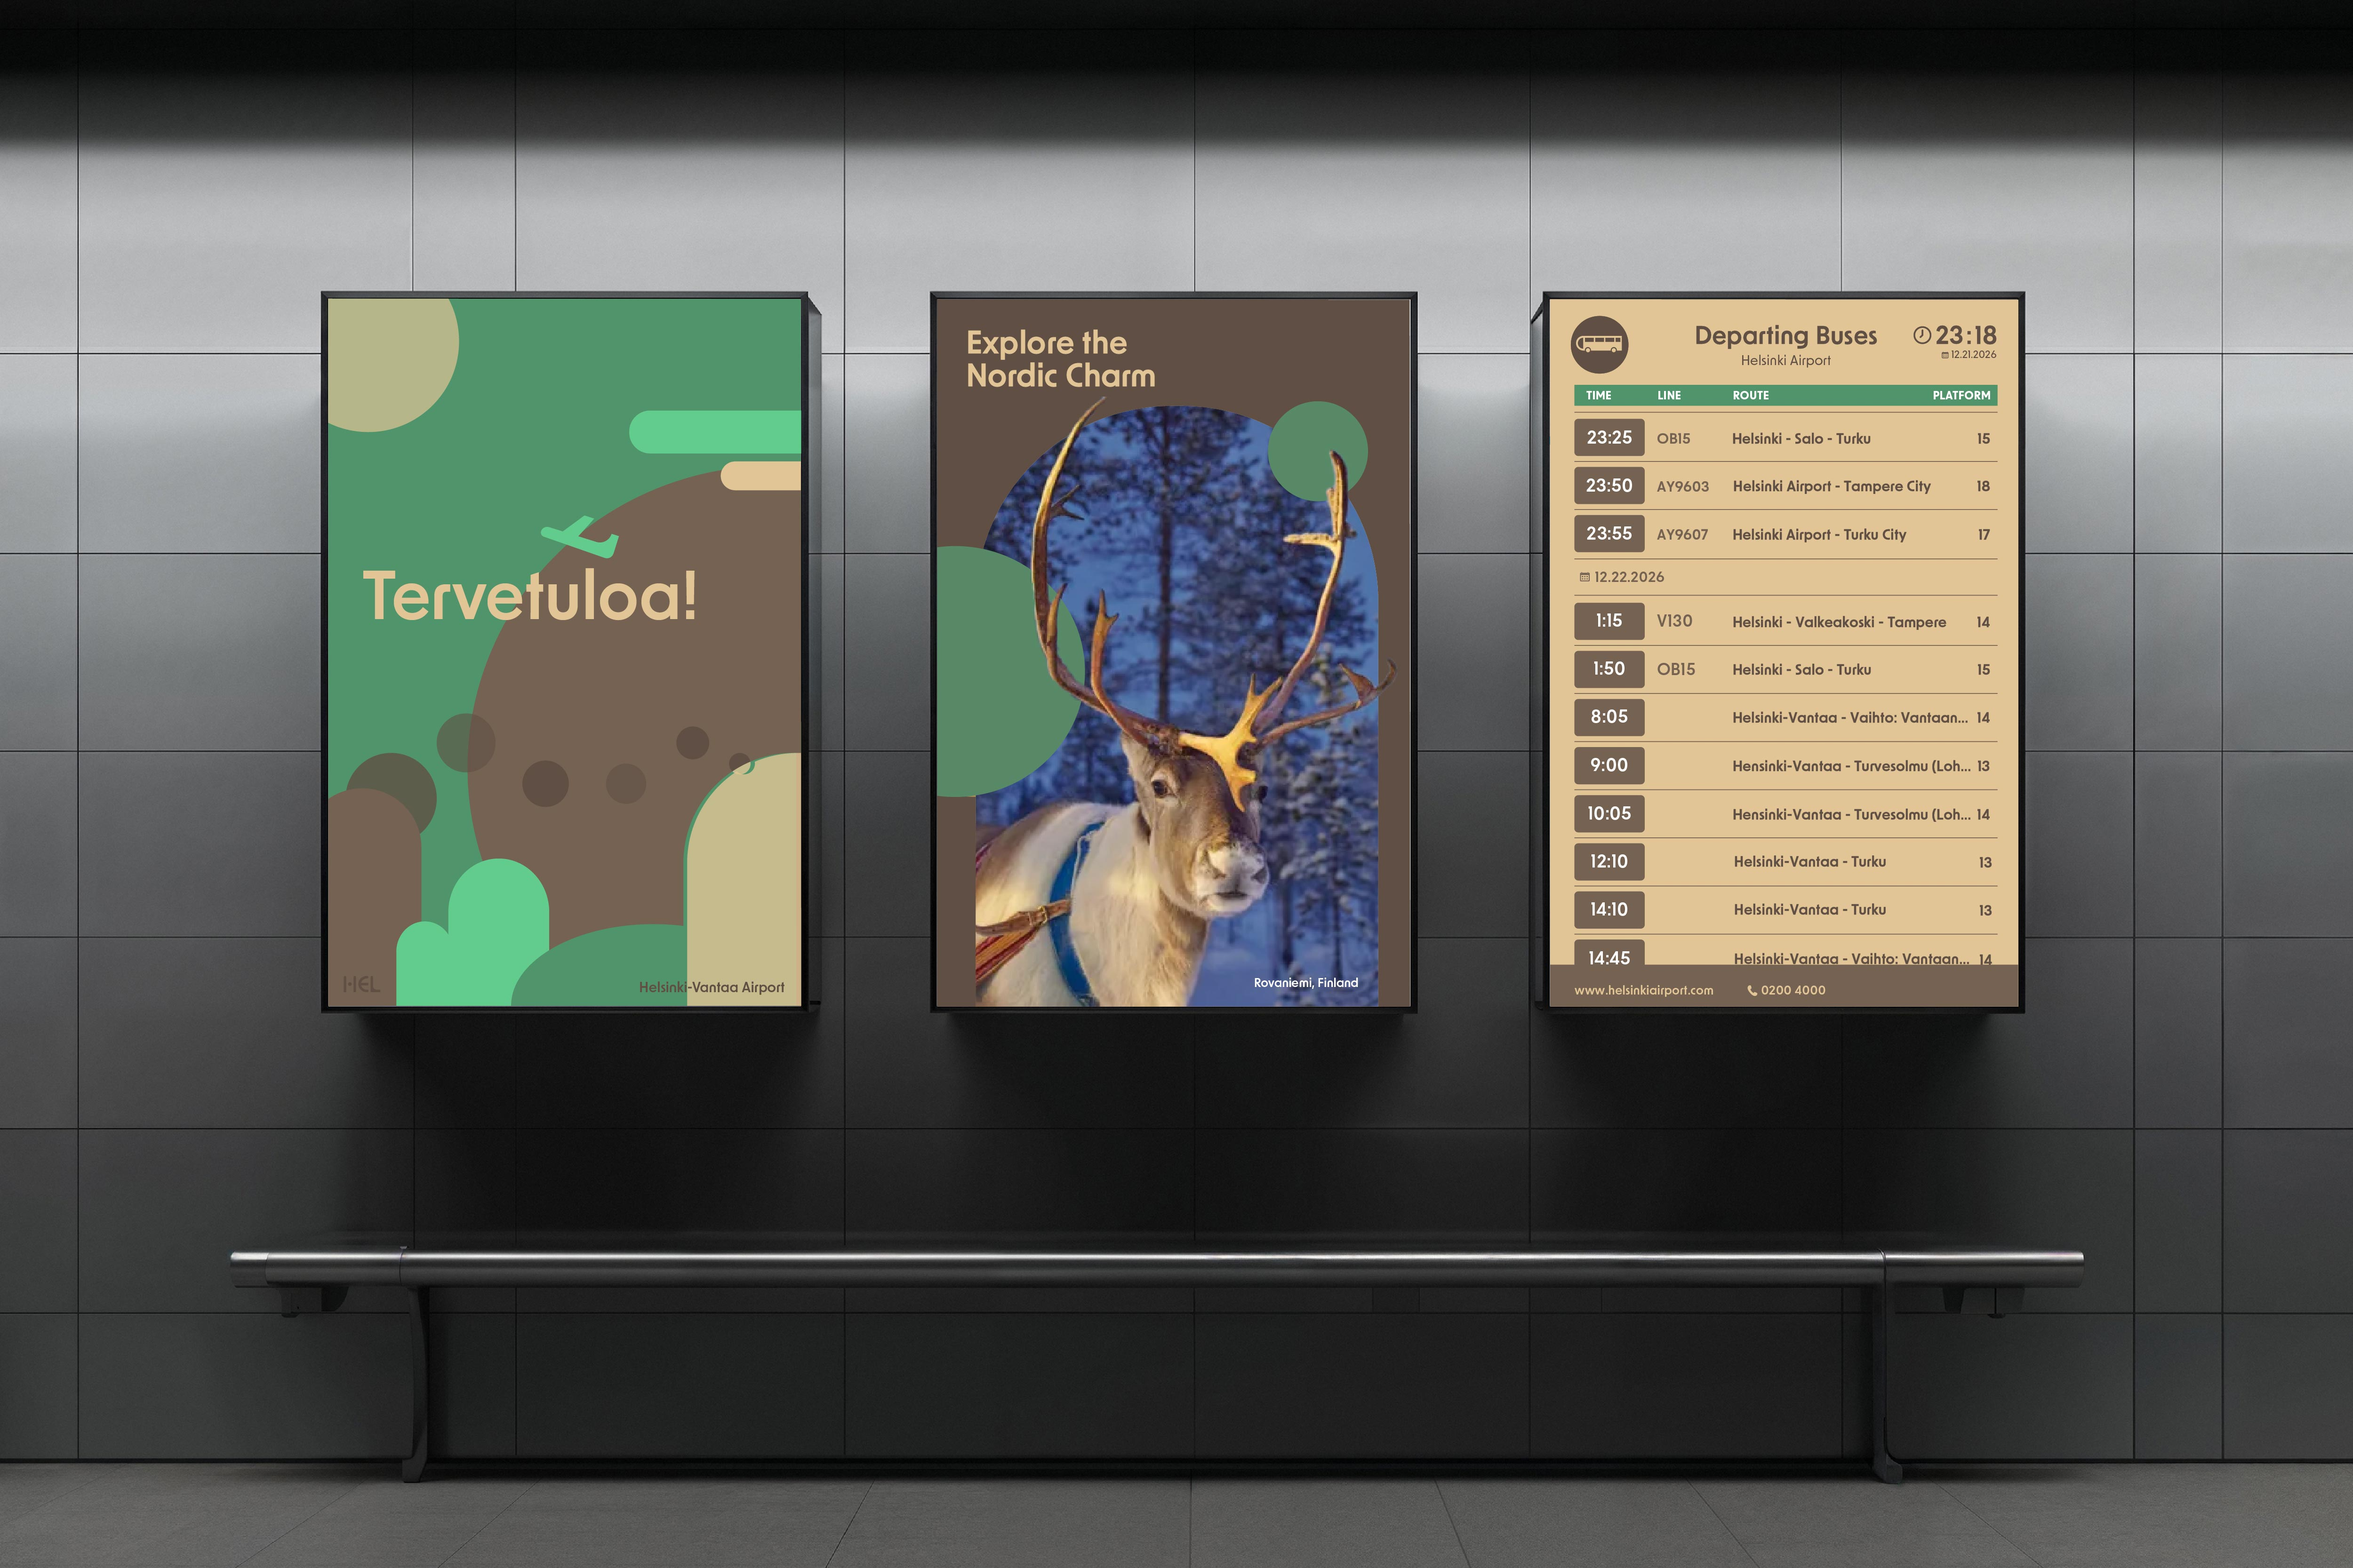
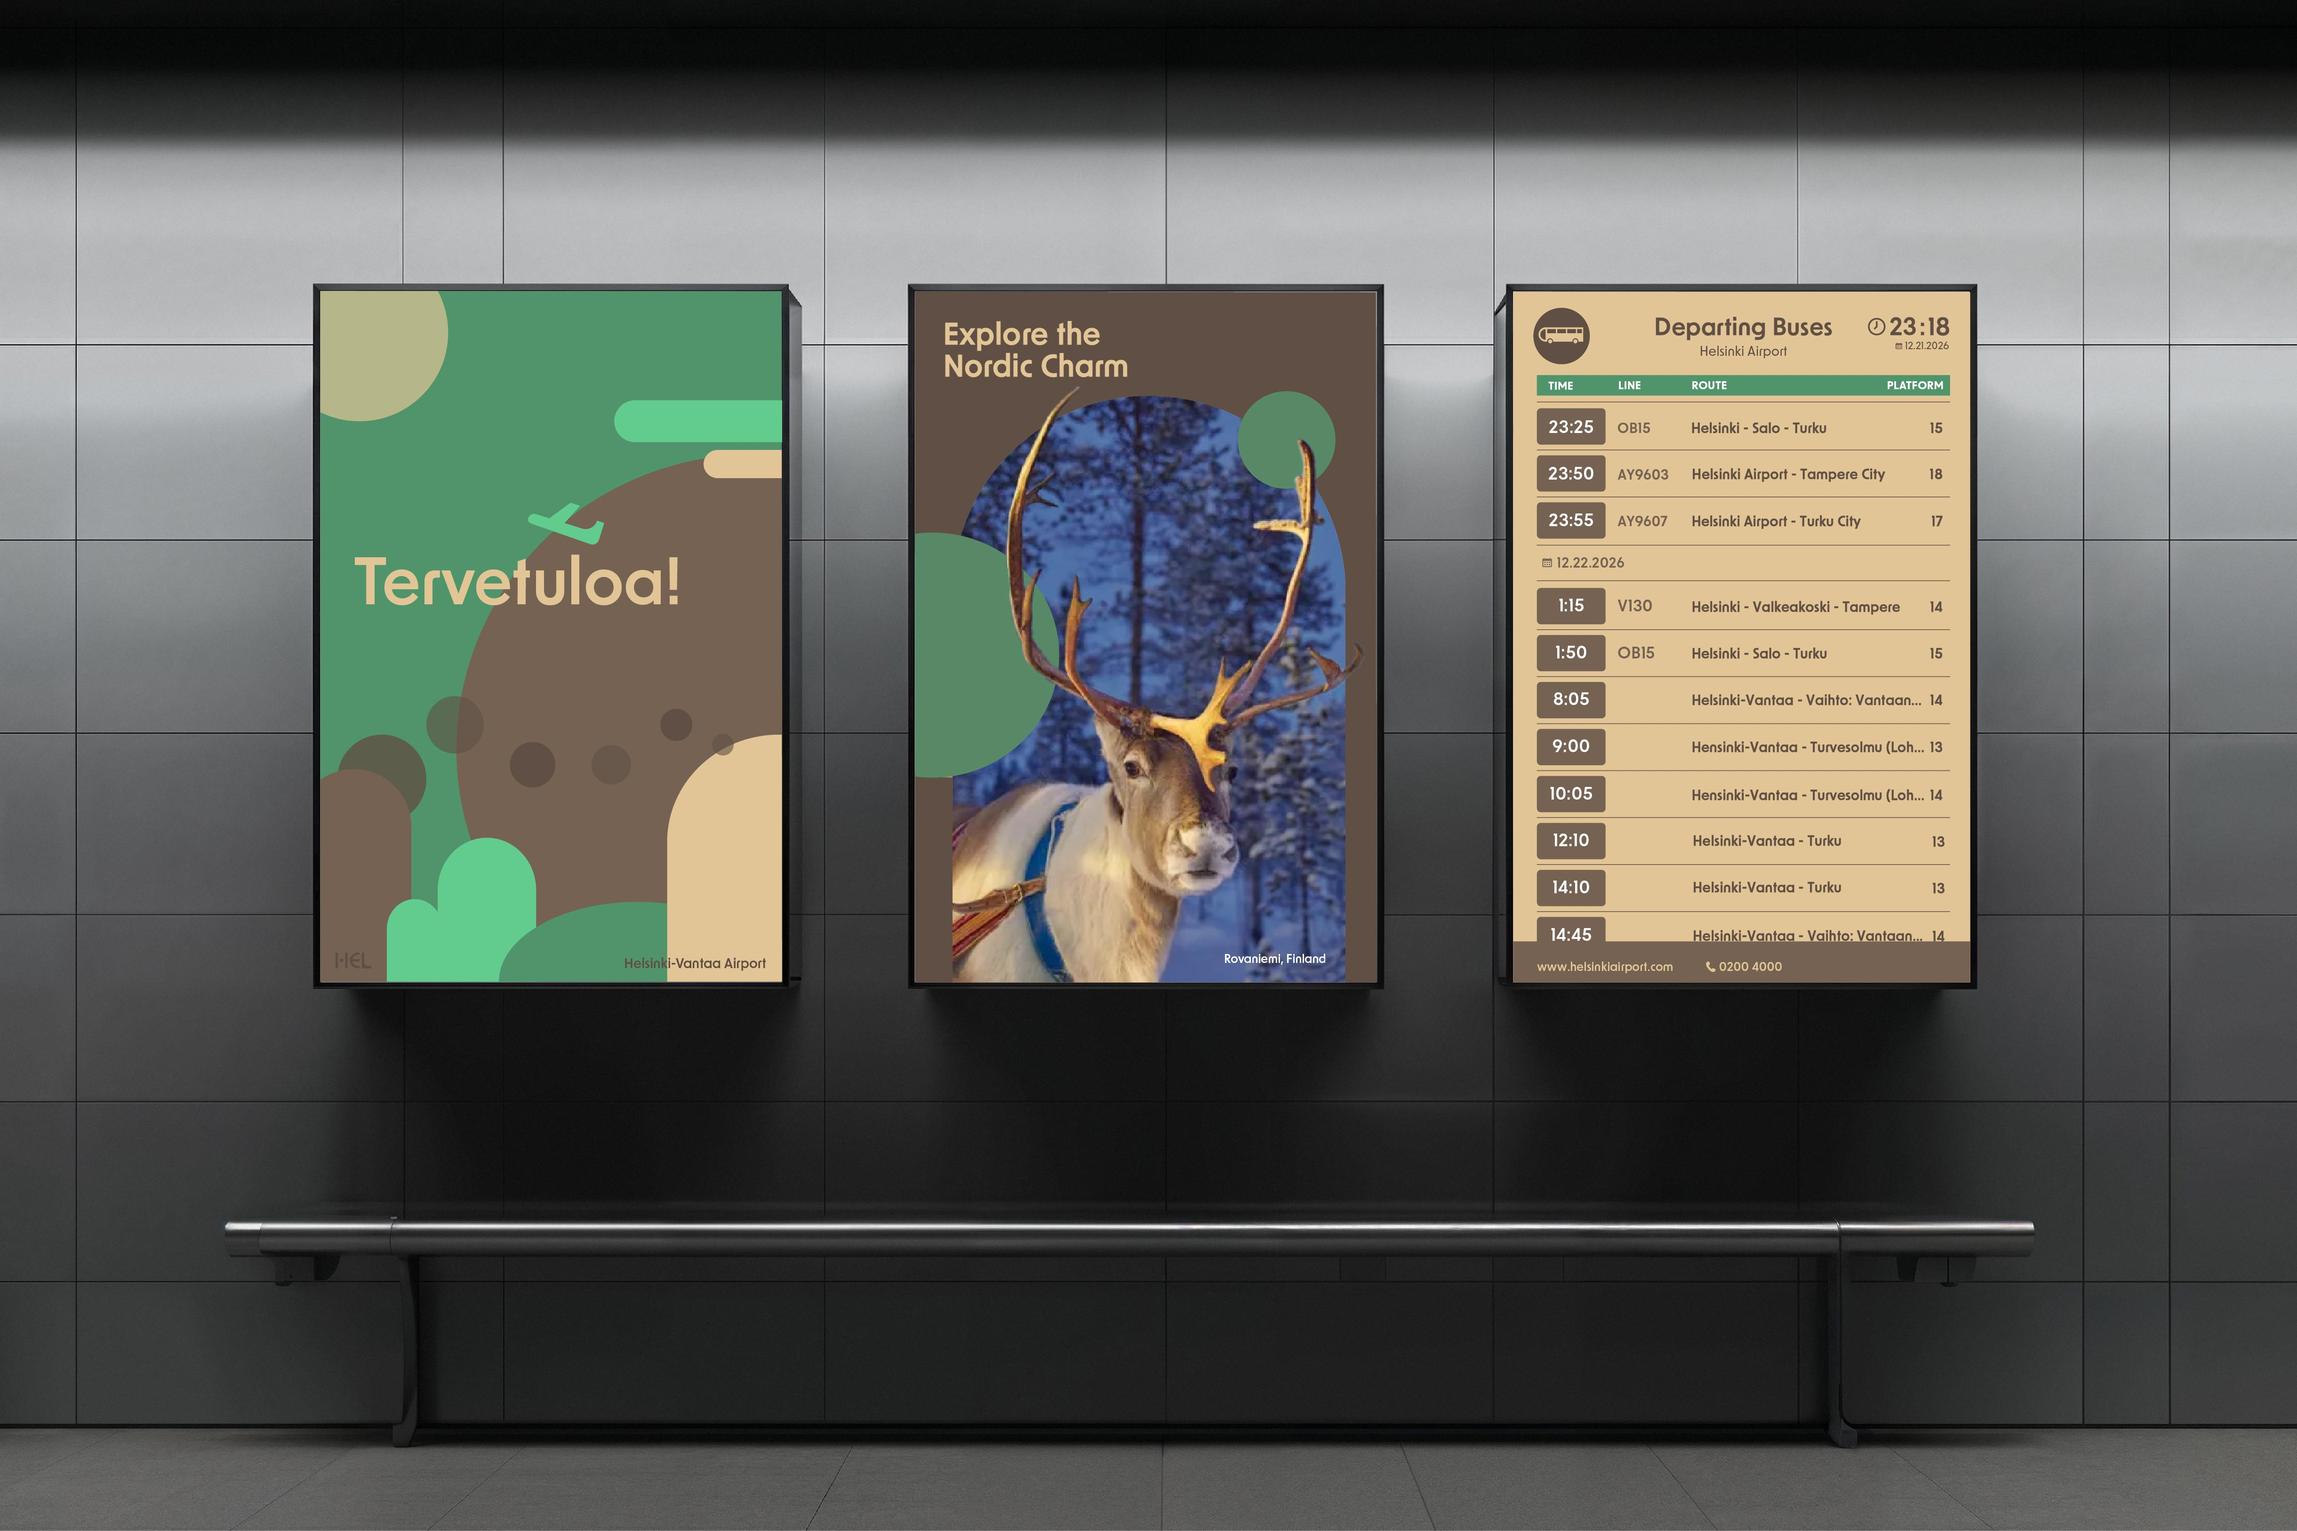
11/10 updates

diff --git a/index.html b/index.html
@@ -252,7 +252,7 @@
 
       <button class="thumb" data-project="proj6" type="button">
         <span class="thumb-media">
-          <video autoplay muted loop playsinline>
+          <video autoplay muted loop playsinline preload="auto" poster="images/mpaa/mpaa-poster.png">
             <source src="images/mpaa/mpaa-video-appl.mp4" type="video/mp4">
           </video>
         </span>
@@ -261,7 +261,7 @@
 
       <button class="thumb" data-project="proj4" type="button">
         <span class="thumb-media">
-          <img src="images/HEL/mockup-trio.jpg" alt="">
+          <img src="images/HEL/logo with image1.jpg" alt="">
         </span>
         <span class="thumb-title">HELSINKI AIRPORT REBRANDING</span>
       </button>
@@ -495,6 +495,7 @@
       <img src="images/HEL/app icon.jpg" alt="App icon">
       <img src="images/HEL/appstore.png">
       <img src="images/HEL/app features.jpg" alt="App features">
+      <img src="images/HEL/logo with image3.jpg">
     </div>
 
     <!-- PROJ2: DOORS -->

diff --git a/script.js b/script.js
@@ -408,6 +408,22 @@ document.querySelectorAll(".wiggle-text").forEach(el => {
   });
 });
 // =============================
+// TWO IMAGES SIDE BY SIDE: SAME HEIGHT, FULL WIDTH
+// =============================
+// Each image in a .project-row.two-col gets a width that matches its
+// shape (wider images get more room), so both end up the same height
+// and together they fill the whole row.
+
+document.querySelectorAll(".project-row.two-col img").forEach(img => {
+  function balance() {
+    if (img.naturalWidth && img.naturalHeight) {
+      img.style.flexGrow = img.naturalWidth / img.naturalHeight;
+    }
+  }
+  if (img.complete) balance();
+  img.addEventListener("load", balance);
+});
+// =============================
 // INITIAL STATE
 // =============================
 
